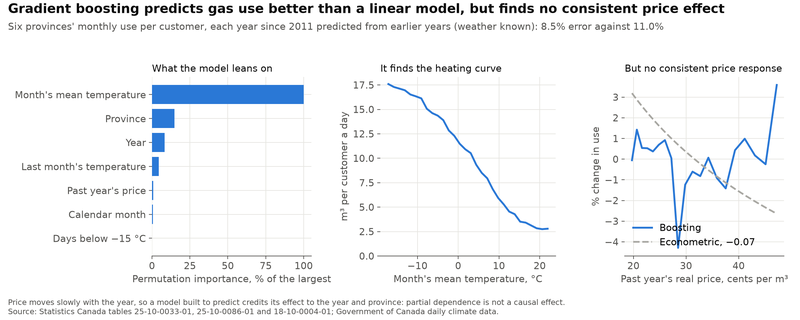
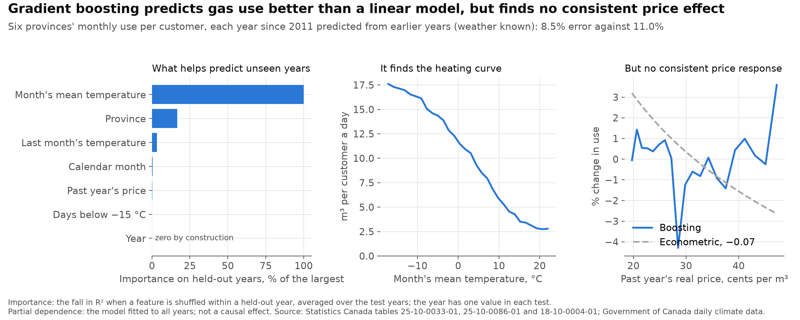
Correct the gas page's importance and coverage claims

diff --git a/canada-gas-demand.html b/canada-gas-demand.html
@@ -91,7 +91,7 @@
     </figure>
     <ul>
       <li>Households respond only a little to gas prices. In BC, a 10% higher real price cuts gas use per customer by about 1.2% within the year and 1.8% once households have adjusted (elasticities of −0.12 and −0.18). Ontario's response is smaller (about −0.05), and Alberta's, with cheap gas and cold winters, is indistinguishable from zero.</li>
-      <li>Trap 1: the month's average price. The only price in the data is revenue per cubic metre, which includes fixed monthly charges. In a cold month the fixed charge is spread over more gas, so the average price falls just as use rises, and a regression reads the weather as a price response. Using the average price over the previous 12 months removes this: the month's price overstates the response by 52% in BC and 63% in Ontario.</li>
+      <li>Trap 1: the month's average price. The only price in the data is revenue per cubic metre, which includes fixed monthly charges. In a cold month the fixed charge is spread over more gas, so the average price falls just as use rises, and a regression reads the weather as a price response. Using the average price over the previous 12 months removes this: the month's price overstates the response by 52% in BC and 63% in Ontario. Only the monthly model gets this fix; the annual models still use the same year's price (see Limits).</li>
       <li>Trap 2: leaving out efficiency gains. Gas use per customer fell 40% in BC from 1981 to 2025 and 37% in Ontario, about 7-10% a decade. Prices rose over much of that time, so a model without a trend credits the price for the efficiency gains: BC's long-run response looks 2.2 times too large, and Ontario's comes out with the wrong sign.</li>
       <li>The response has faded since about 2010. Estimated year by year, BC's short-run elasticity was strongest around 1995 (−0.16) and averaged −0.12 over 1990-2005, but has been close to zero since 2011; Ontario's moved from about −0.09 to −0.03. The change is statistically clear in BC and Ontario (p &lt; 0.001). The data cannot show why.</li>
     </ul>
@@ -147,7 +147,7 @@
   <section class="section" id="forecast">
     <h2>4. How well can demand be forecast?</h2>
     <ul class="tags"><li>164 forecast origins, 2012-2026</li><li>Seasonal ARIMA with heating degree days</li><li>Exponential smoothing</li><li>Conformal prediction</li></ul>
-    <p>Each month since December 2012, a seasonal ARIMA with heating degree days forecast the next 12 months of residential gas volume from earlier data only, assuming normal weather. Month by month it missed by about 9% in BC and 9-12% in Ontario. The weather is most of that: told the weather that came, the same model misses a year's total by 2.1% in BC and 2.6% in Ontario, against 4.7% and 6.7%. Ranges built from the model's own earlier errors held 86% and 81% of outcomes at a stated 80%; the model's own ranges held only 62% in Ontario. For a year's total in BC, repeating last year did as well; what the model adds is the monthly shape, ranges that hold and the split into weather and the rest.</p>
+    <p>Each month since December 2012, a seasonal ARIMA with heating degree days forecast the next 12 months of residential gas volume from earlier data only, assuming normal weather. Month by month it missed by about 9% in BC and 9-12% in Ontario. The weather is most of that: told the weather that came, the same model misses a year's total by 2.1% in BC and 2.6% in Ontario, against 4.7% and 6.7%. Ranges built from the model's own earlier errors held 86% and 81% of outcomes at a stated 80%; the model's own ranges held only 62% in Ontario. These forecasts overlap, so the checks amount to about 12 independent years, and the shares are rough. For a year's total in BC, repeating last year did as well; what the model adds is the monthly shape, ranges that held about as often as stated and the split into weather and the rest.</p>
     <div class="viz">
       <div class="viz-key" role="group" aria-label="Province">
         <button type="button" data-forecast="British Columbia">BC</button>
@@ -170,9 +170,9 @@
   <section class="section" id="ml">
     <h2>5. What does machine learning see?</h2>
     <ul class="tags"><li>Six provinces, 3,104 province-months</li><li>scikit-learn</li><li>Gradient boosting</li><li>Permutation importance</li><li>Partial dependence</li></ul>
-    <p>Gradient boosting on the month's temperature, last month's, the share of very cold days, calendar month, year, the past year's price and the province predicts each year from 2011, trained on earlier years only, with an error of 8.5% against 11.0% for a linear model of each province. It leans mostly on temperature, and its partial dependence on temperature redraws the heating curve, flattening in the coldest months. It finds no consistent price effect: price moves slowly with the year and differs by province, and a model built to predict credits that movement to the year and the province. That is why the price response comes from the econometric models, not this one.</p>
+    <p>Gradient boosting on the month's temperature, last month's, the share of very cold days, calendar month, year, the past year's price and the province predicts each year from 2011, trained on earlier years only, with an error of 8.5% against 11.0% for a linear model of each province. On years it had not seen, temperature matters far more than anything else (shuffling it lowers R² by 1.36, against 0.23 for the province), and its partial dependence on temperature redraws the heating curve, flattening in the coldest months. It finds no consistent price effect: shuffling price lowers R² by 0.003, fifth of seven features, and within a test year 97% of the differences in price lie between provinces, so the province already carries most of what price could add. The test cannot score the year, which has one value in each test. That is why the price response comes from the econometric models, not this one.</p>
     <figure>
-      <img src="img/gas-ml-drivers.png" srcset="img/gas-ml-drivers-800.png 800w, img/gas-ml-drivers.png 1600w" sizes="(max-width: 860px) calc(100vw - 2.5rem), 816px" alt="Permutation importance dominated by the month's temperature; partial dependence on temperature shaped like a heating curve; partial dependence on price wobbling with no trend, against the econometric estimate's gentle downward slope." width="1600" height="640" loading="lazy" />
+      <img src="img/gas-ml-drivers.png" srcset="img/gas-ml-drivers-800.png 800w, img/gas-ml-drivers.png 1600w" sizes="(max-width: 860px) calc(100vw - 2.5rem), 816px" alt="Permutation importance on held-out years dominated by the month's temperature; partial dependence on temperature shaped like a heating curve; partial dependence on price wobbling with no trend, against the econometric estimate's gentle downward slope." width="1600" height="640" loading="lazy" />
     </figure>
   </section>
 
@@ -192,6 +192,9 @@
       <li>The annual models have 32-44 years, and how much the elasticity appears to change depends on including the efficiency trend.</li>
       <li>Manitoba's 2007 and Quebec's 2019 reporting levels are inferred from jumps in the data, and the six-province results depend on them. Year-round use is whatever does not follow the temperature, so a changing mix of customers moves it as well as more efficient appliances.</li>
       <li>Forecasts assume normal weather, which is most of their error. Partial dependence shows what a model learned from the data, not what would happen if one input changed alone.</li>
+      <li>The annual models still use the same year's price: revenue over volume, so fixed charges spread over more gas when use is high, and the average price falls. That can make the response look larger than it is, by an amount not measured here. Read the annual elasticities, including BC's −0.12 and −0.18, as how a year's use moved with that year's average bill, not as a clean response to a price set beforehand. The monthly estimate with the past year's price does not have this problem.</li>
+      <li>Forecasts from neighbouring months overlap, so the checks on the ranges amount to about 12-14 independent years, too few to show that the ranges are exact.</li>
+      <li>Importance shuffles one feature at a time. Features that overlap, such as temperature and calendar month or price and province, can stand in for each other, so a low score does not mean the model would do as well without that feature.</li>
     </ul>
   </section>
 

diff --git a/index.html b/index.html
@@ -96,7 +96,7 @@
       <div>
         <h3><a href="canada-gas-demand.html">Household gas demand in Canada since 1981: price, efficiency and forecasts</a></h3>
         <p class="meta">Open data analysis in Python, with interactive charts and a monthly dashboard, 2026</p>
-        <p>A 10% higher gas price cuts BC households' use by about 1.2% in the first year, and two common traps overstate that. Partial pooling across six provinces, heating-curve models and machine learning show where the long fall in use came from, and a year's demand is forecast with an average error of 5-7%, with calibrated ranges.</p>
+        <p>A 10% higher gas price cuts BC households' use by about 1.2% in the first year, and two common traps overstate that. Partial pooling across six provinces, heating-curve models and machine learning show where the long fall in use came from, and a year's demand is forecast with an average error of 5-7%, with ranges from past errors.</p>
         <div class="links-row"><a href="canada-gas-demand.html">Project page</a><a href="canada_gas_demand/">Dashboard</a><a href="https://github.com/atamalfuzi/canada_gas_demand" target="_blank">Code</a></div>
       </div>
     </li>

diff --git a/projects.html b/projects.html
@@ -79,7 +79,7 @@
       <div>
         <h3><a href="canada-gas-demand.html">Household gas demand in Canada since 1981: price, efficiency and forecasts</a></h3>
         <p class="meta">Open data analysis in Python, with interactive charts and a monthly dashboard, 2026</p>
-        <p>A 10% higher gas price cuts BC households' use by about 1.2% in the first year, and two common traps overstate that. Partial pooling across six provinces, heating-curve models and machine learning show where the long fall in use came from, and a year's demand is forecast with an average error of 5-7%, with calibrated ranges.</p>
+        <p>A 10% higher gas price cuts BC households' use by about 1.2% in the first year, and two common traps overstate that. Partial pooling across six provinces, heating-curve models and machine learning show where the long fall in use came from, and a year's demand is forecast with an average error of 5-7%, with ranges from past errors.</p>
         <div class="links-row"><a href="canada-gas-demand.html">Project page</a><a href="canada_gas_demand/">Dashboard</a><a href="https://github.com/atamalfuzi/canada_gas_demand" target="_blank">Code</a></div>
       </div>
     </li>
